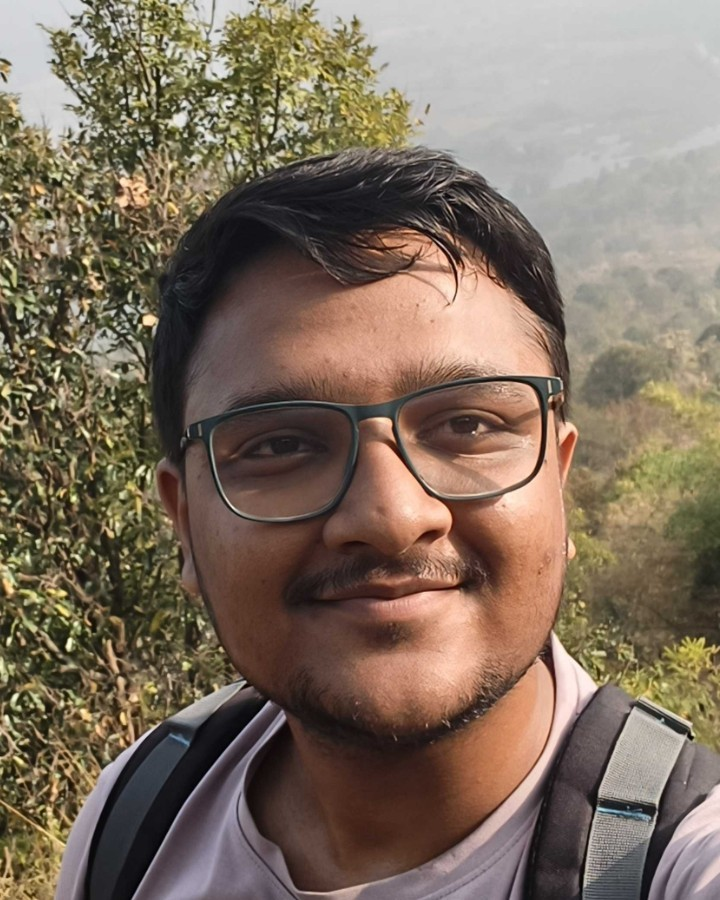
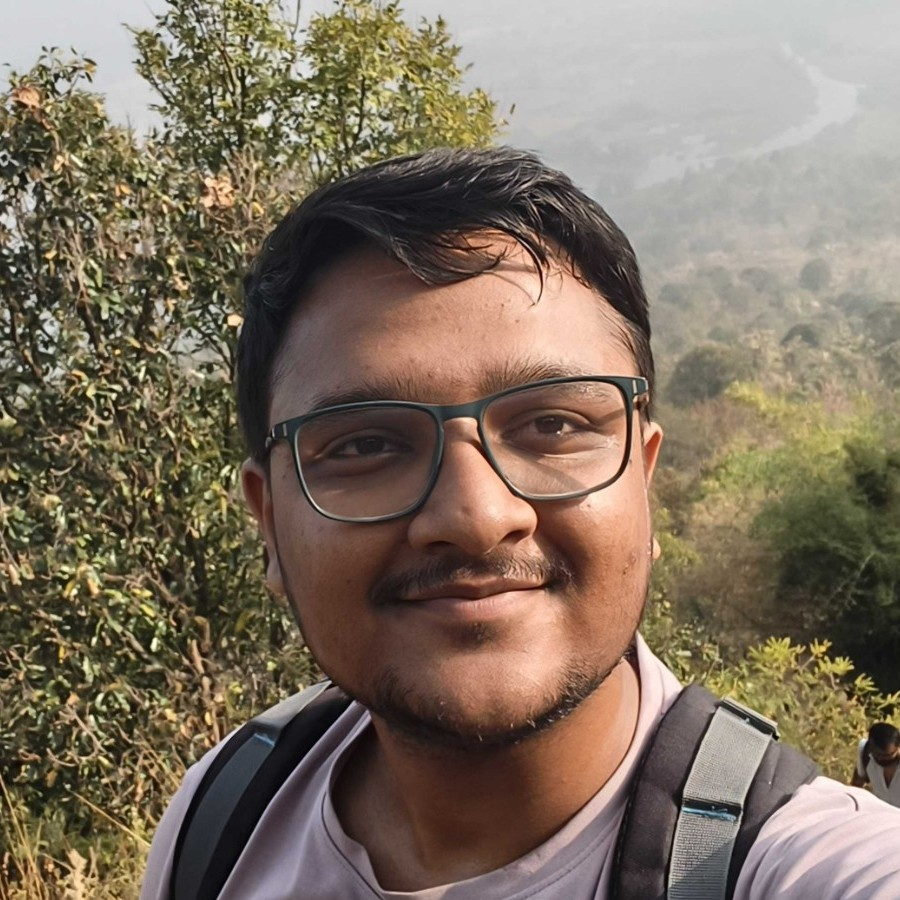
Make home portrait a soft-edged, warm-toned circle

diff --git a/PLANNING.md b/PLANNING.md
@@ -68,7 +68,7 @@ Early ideas to discuss (nothing decided):
 
 ## Later / phase 2
 
-- **Portrait photo:** added to the home hero (`src/assets/portrait.jpg`, cropped 4:5, metadata stripped). _Done._
+- **Portrait photo:** on the home hero as a circle with a soft, blended edge and a warm, muted tone so it matches the paper-and-ink palette (`src/assets/portrait.jpg`, square crop, metadata stripped). _Done._
 - **3D avatar:** a realistic 3D avatar of Kavan that waves hi and follows the cursor. It's feasible with three.js and a rigged avatar model. Trade-offs: a few MB of page weight, slower first load, and it needs a fallback for mobile and reduced-motion users. Plan: launch without it, keep the hero layout ready for it, and build it as its own project.
 
 ## Site map (v1)
